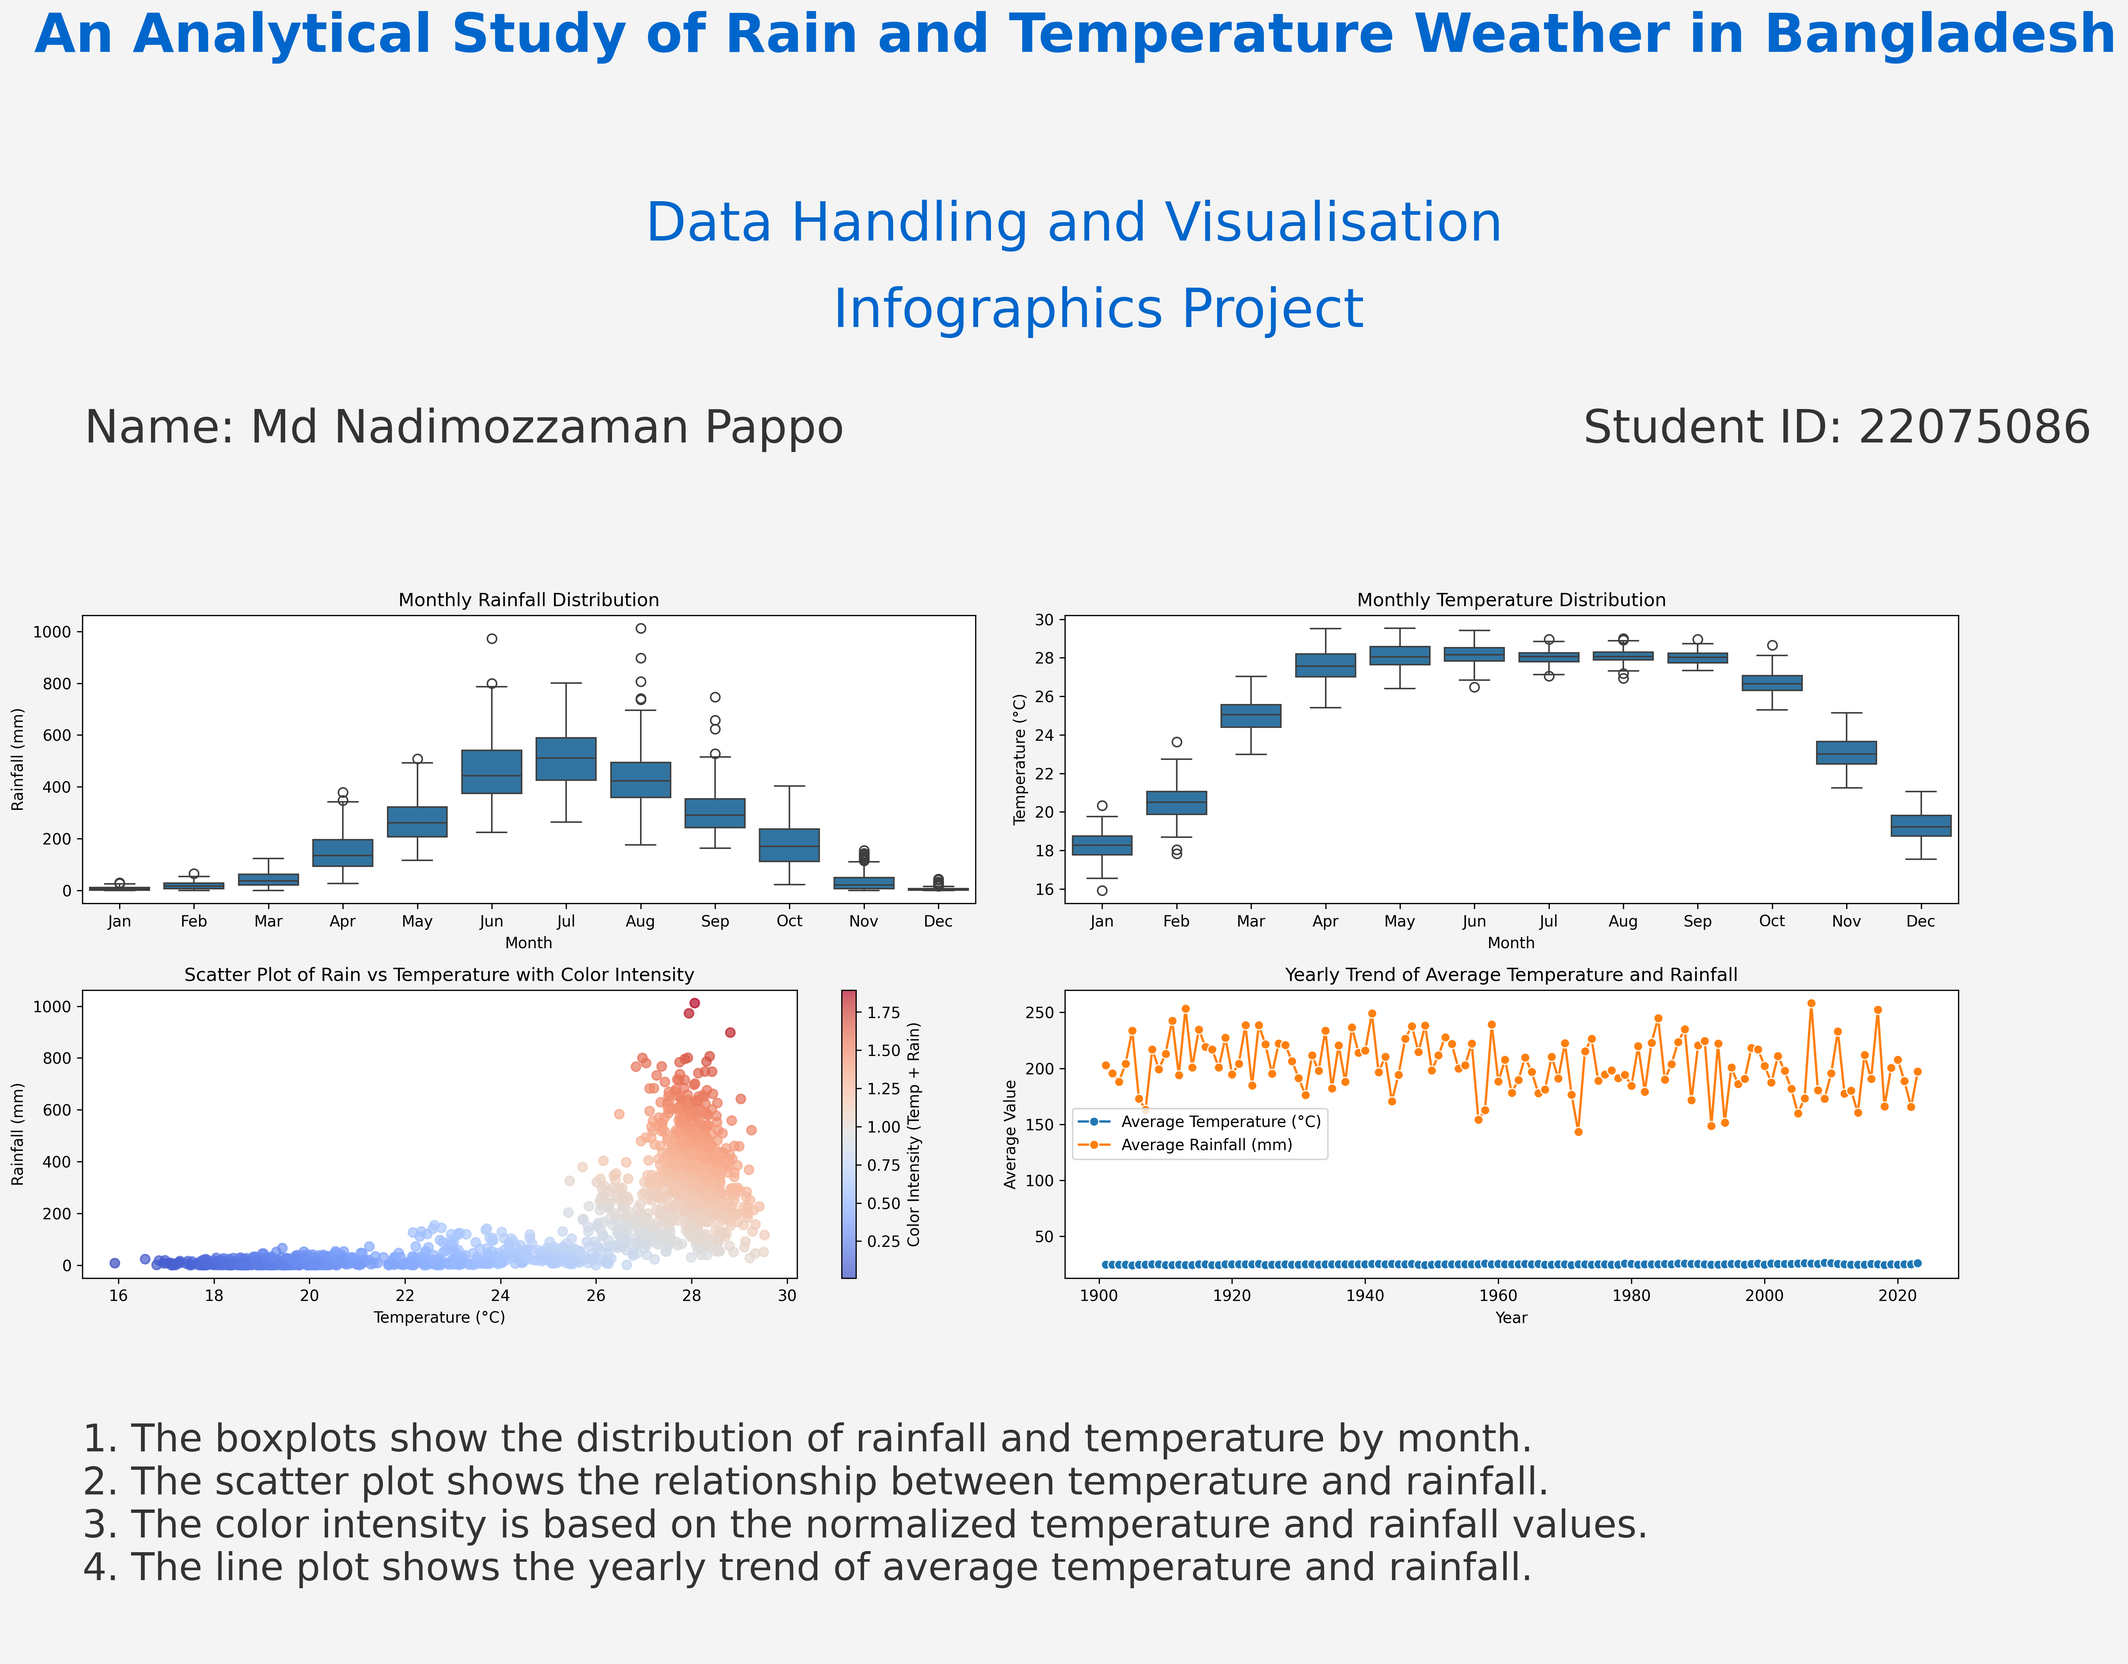
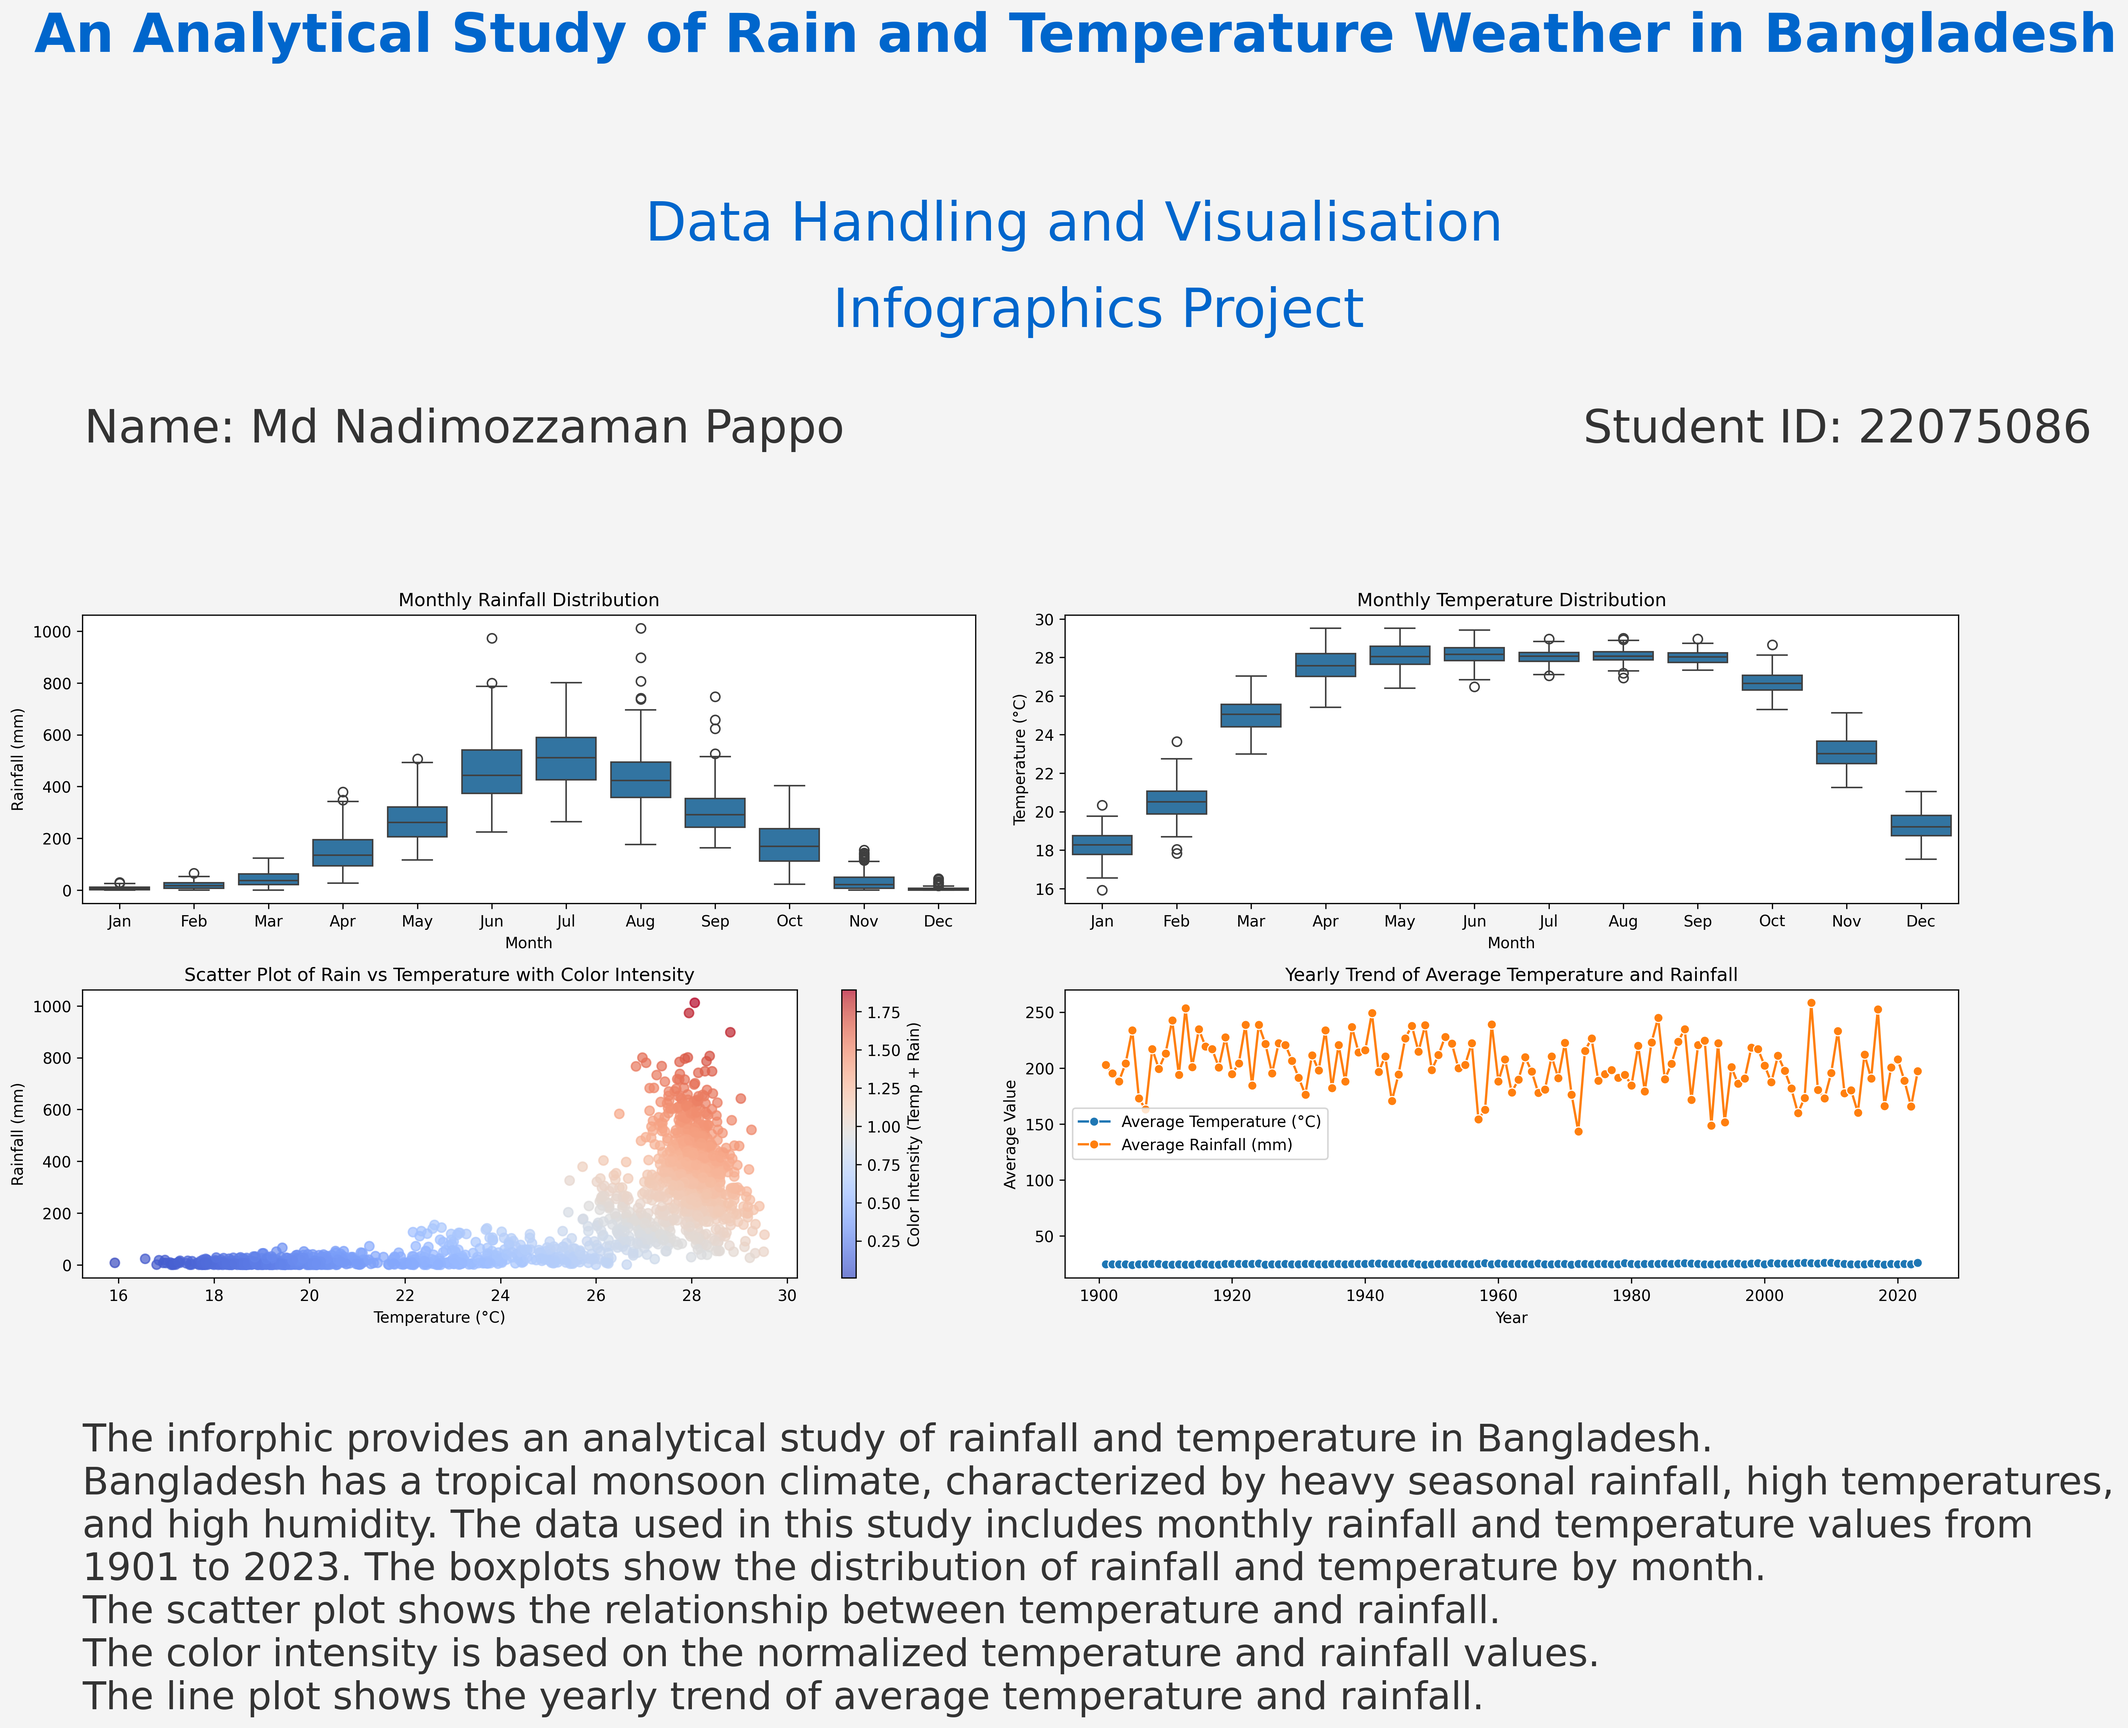
update text block desc

diff --git a/22075086.py b/22075086.py
@@ -126,12 +126,7 @@ ax4.set_ylabel("Average Value")
 
 # Textblock for the summary
 ax5 = fig.add_subplot(grid_spec[3, 0:2])
-summary_text = (
-    "1. The boxplots show the distribution of rainfall and temperature by month.\n"
-    "2. The scatter plot shows the relationship between temperature and rainfall.\n"
-    "3. The color intensity is based on the normalized temperature and rainfall values.\n"
-    "4. The line plot shows the yearly trend of average temperature and rainfall."
-)
+summary_text = "The inforphic provides an analytical study of rainfall and temperature in Bangladesh.\nBangladesh has a tropical monsoon climate, characterized by heavy seasonal rainfall, high temperatures,\nand high humidity. The data used in this study includes monthly rainfall and temperature values from \n1901 to 2023. The boxplots show the distribution of rainfall and temperature by month. \nThe scatter plot shows the relationship between temperature and rainfall. \nThe color intensity is based on the normalized temperature and rainfall values. \nThe line plot shows the yearly trend of average temperature and rainfall."
 ax5.text(0, 0.8, summary_text, fontsize=25, color="#333333", va="top")
 ax5.axis("off")  # Hide axes for the summary section
 
